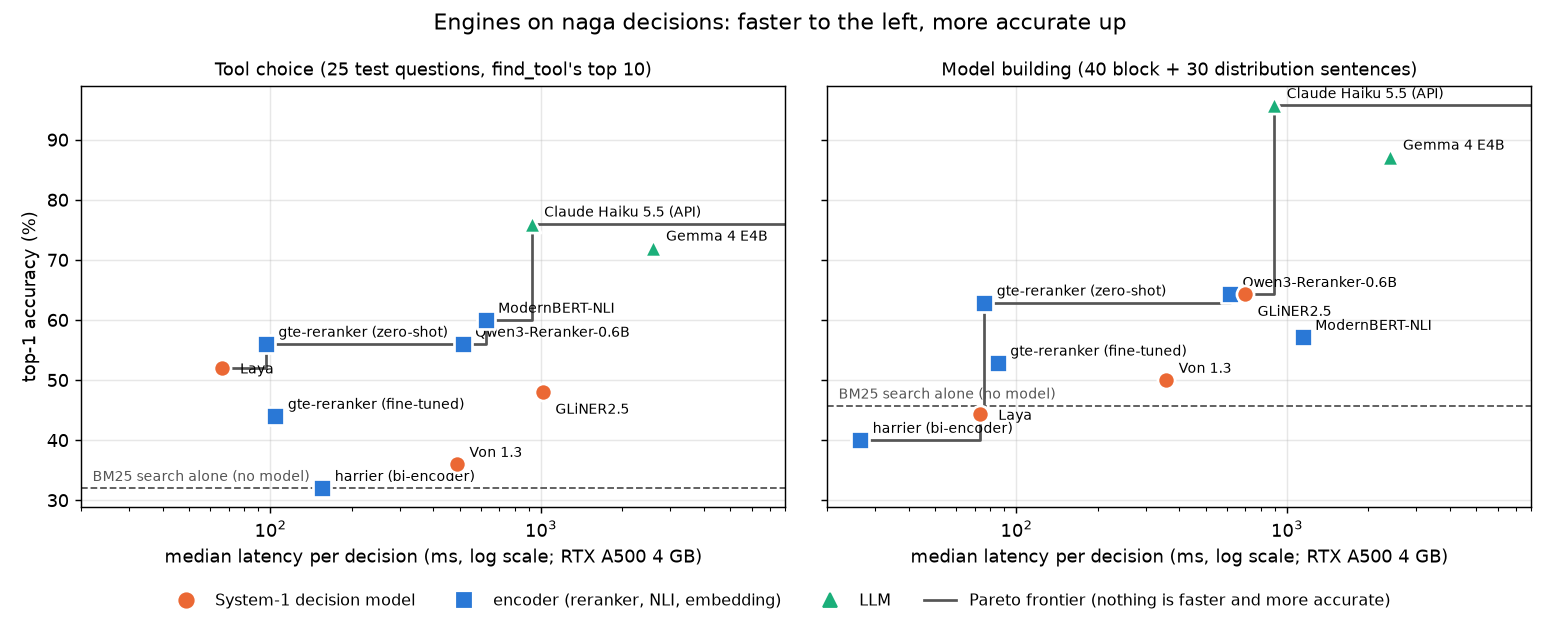
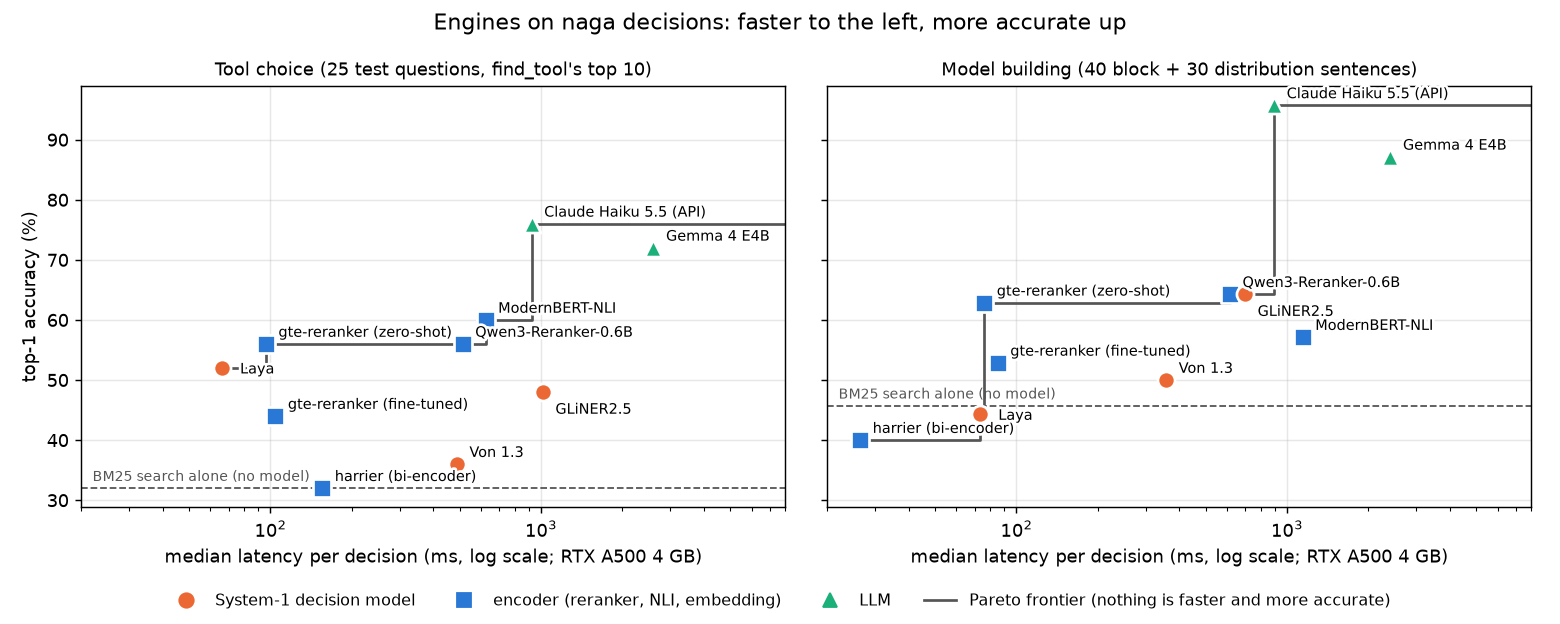
Charts: a halo keeps engine names readable where a frontier line runs behind them

diff --git a/docs/stylesheets/pareto.css b/docs/stylesheets/pareto.css
@@ -42,6 +42,8 @@
 .pareto-point { cursor: default; outline: none; transition: opacity 0.15s; }
 .pareto-point.dim { opacity: 0.2; }
 .pareto-point.on .pareto-dot { transform-box: fill-box; transform-origin: center; transform: scale(1.5); }
+/* A halo in the page colour keeps a name readable where a frontier line runs behind it. */
+.pareto-label, .pareto-note { paint-order: stroke; stroke: var(--pareto-surface); stroke-width: 3.5px; stroke-linejoin: round; }
 .pareto-label { font-size: 10.5px; fill: var(--pareto-muted); pointer-events: none; }
 .pareto-point.on .pareto-label, .pareto-point:focus-visible .pareto-label { fill: var(--pareto-ink); font-weight: 600; }
 .pareto-tip { position: absolute; z-index: 2; max-width: 210px; padding: 0.4em 0.6em; font-size: 0.72rem; line-height: 1.4;

diff --git a/bench/naga/plot.py b/bench/naga/plot.py
@@ -13,6 +13,7 @@ from pathlib import Path
 import matplotlib
 matplotlib.use("Agg")
 import matplotlib.pyplot as plt  # noqa: E402
+from matplotlib import patheffects  # noqa: E402
 
 HERE = Path(__file__).resolve().parent
 R2 = HERE / "results2"
@@ -91,7 +92,9 @@ def hero():
         for e, (x, y) in pts.items():
             ax.scatter(x, y, s=90, color=KIND_COLOR[KIND.get(e, "encoder (reranker, NLI, embedding)")],
                        marker=MARKER.get(e, "s"), edgecolors="white", linewidths=1.5, zorder=3)
-            ax.annotate(LABELS[e], (x, y), textcoords="offset points", xytext=OFFSET.get(e, (7, 4)), fontsize=8)
+            # A white halo keeps a name readable where the frontier line runs behind it.
+            ax.annotate(LABELS[e], (x, y), textcoords="offset points", xytext=OFFSET.get(e, (7, 4)), fontsize=8, zorder=4,
+                        path_effects=[patheffects.withStroke(linewidth=3, foreground="white")])
         ax.axhline(base, ls="--", color="#555", lw=1)
         ax.text(20 * 1.1, base + 1.2, "BM25 search alone (no model)", fontsize=8, color="#555")
         ax.set_xscale("log")
